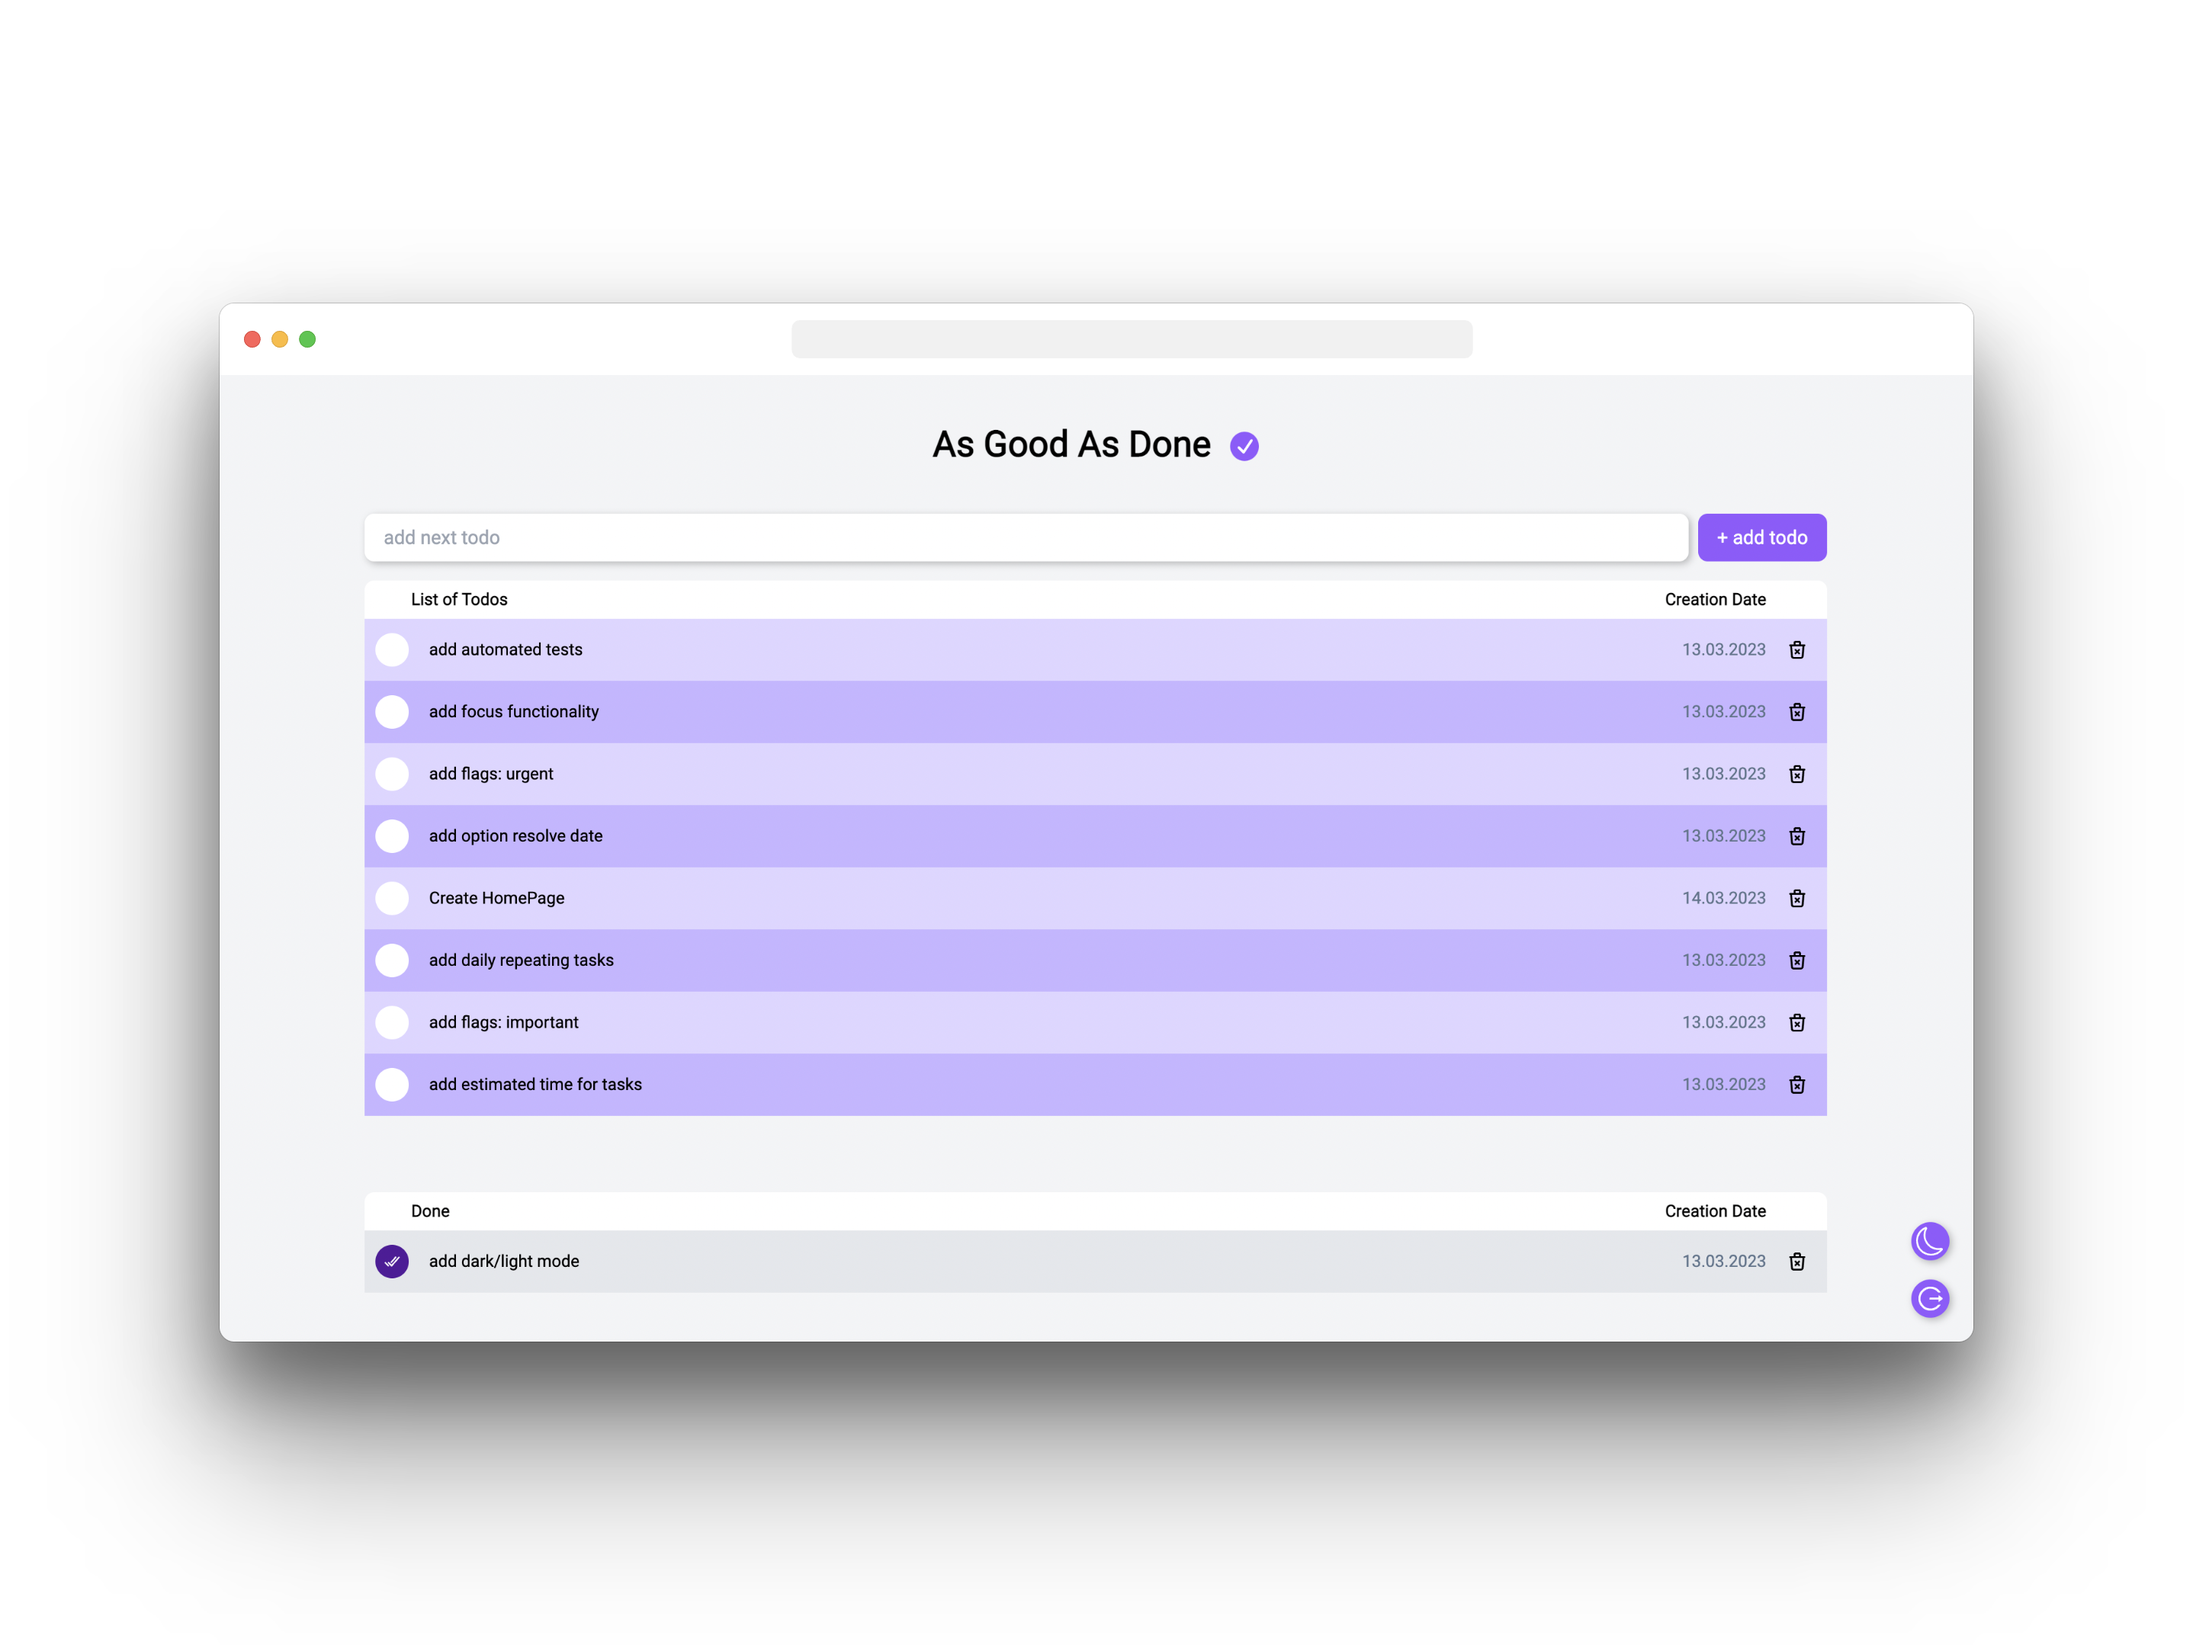
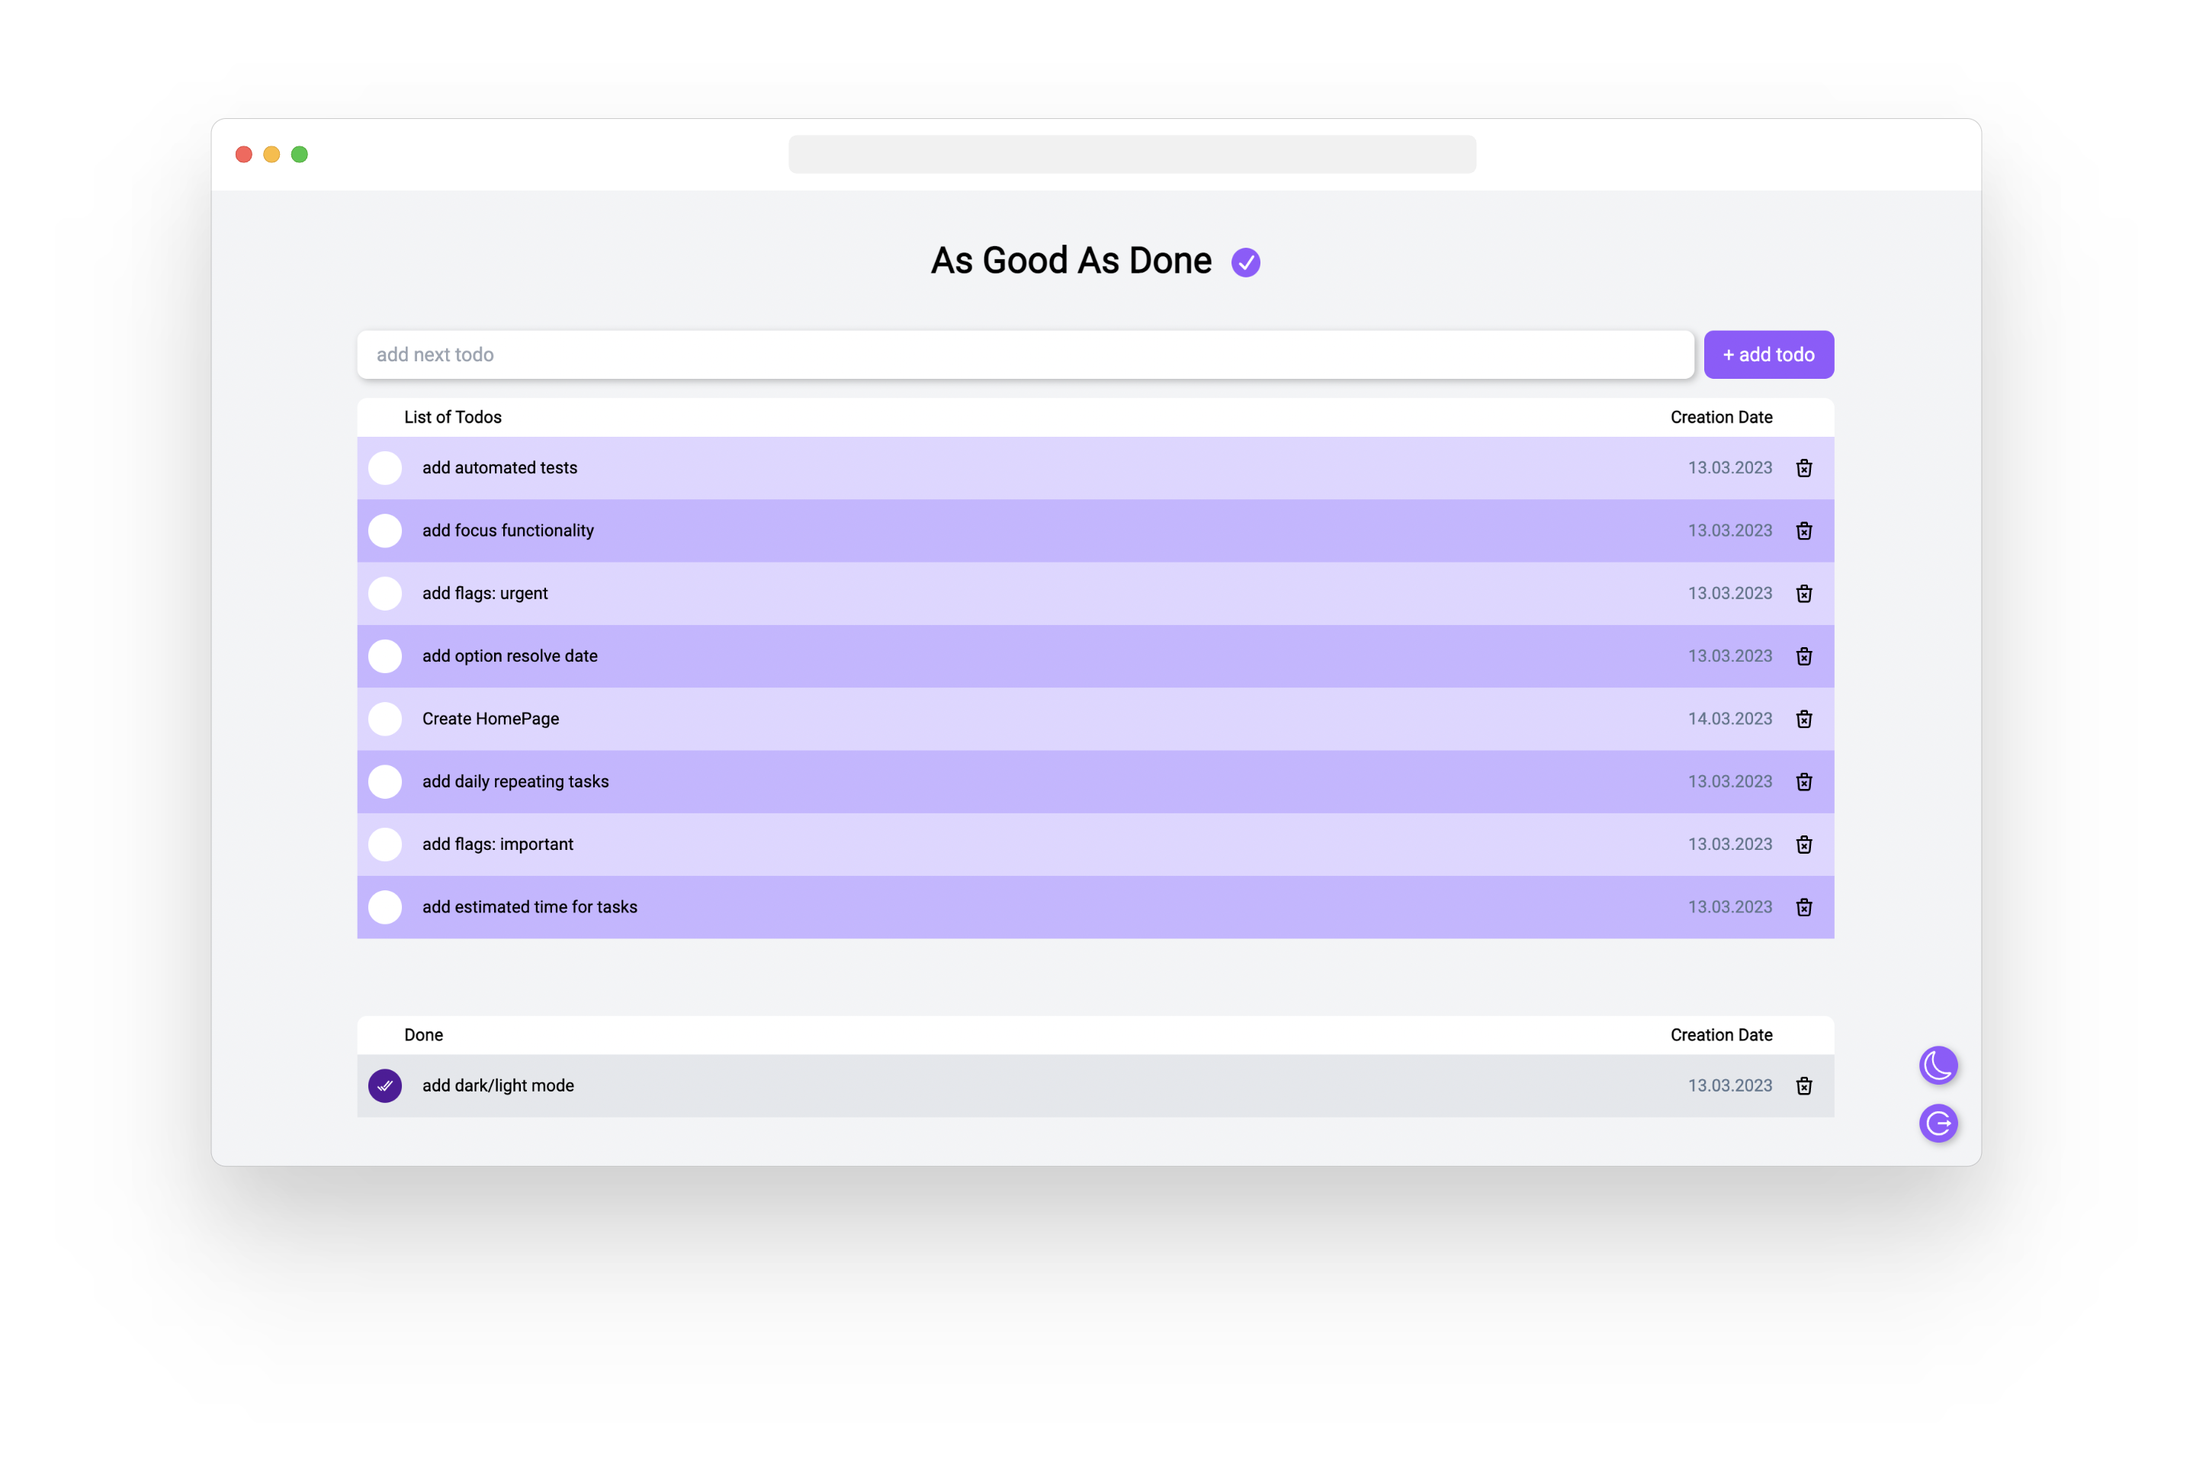
change home images and position!

diff --git a/src/pages/Home.tsx b/src/pages/Home.tsx
@@ -45,7 +45,7 @@ function Home() {
             : "/todoscreenshot_d.png"
         }
         alt=""
-        className="-z-10 -mt-6 md:-mt-20 w-11/12 max-w-6xl"
+        className="-z-10 mt-2 md:-mt-6 w-full md:w-11/12  max-w-6xl"
       />
     </div>
   );
